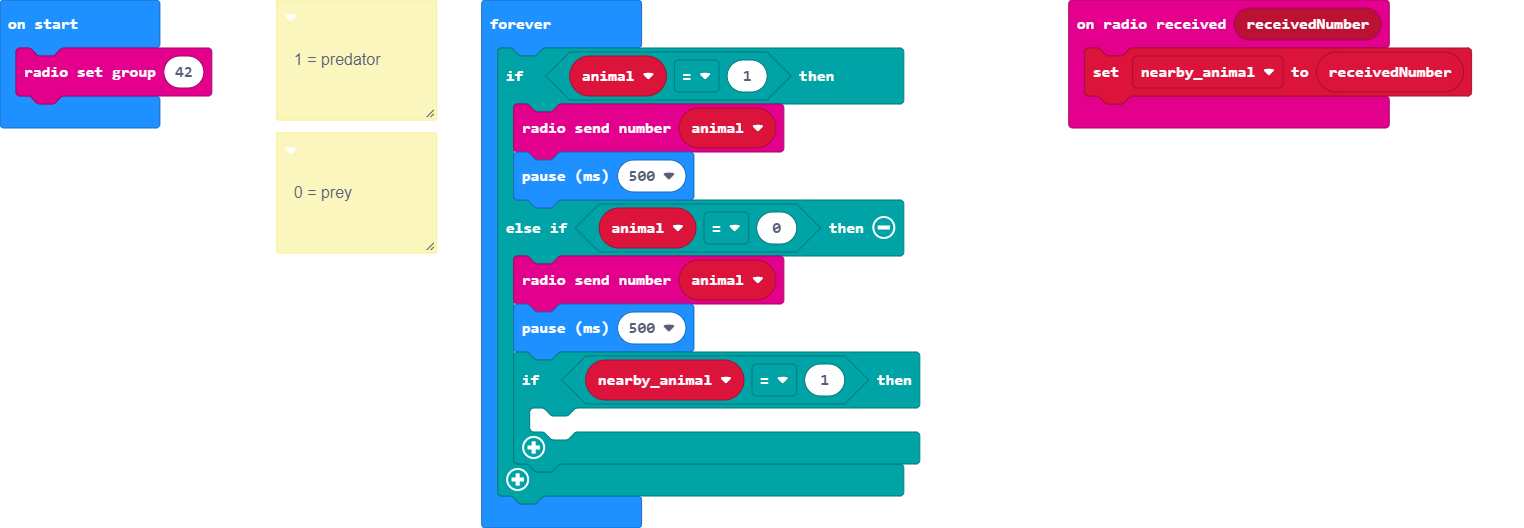
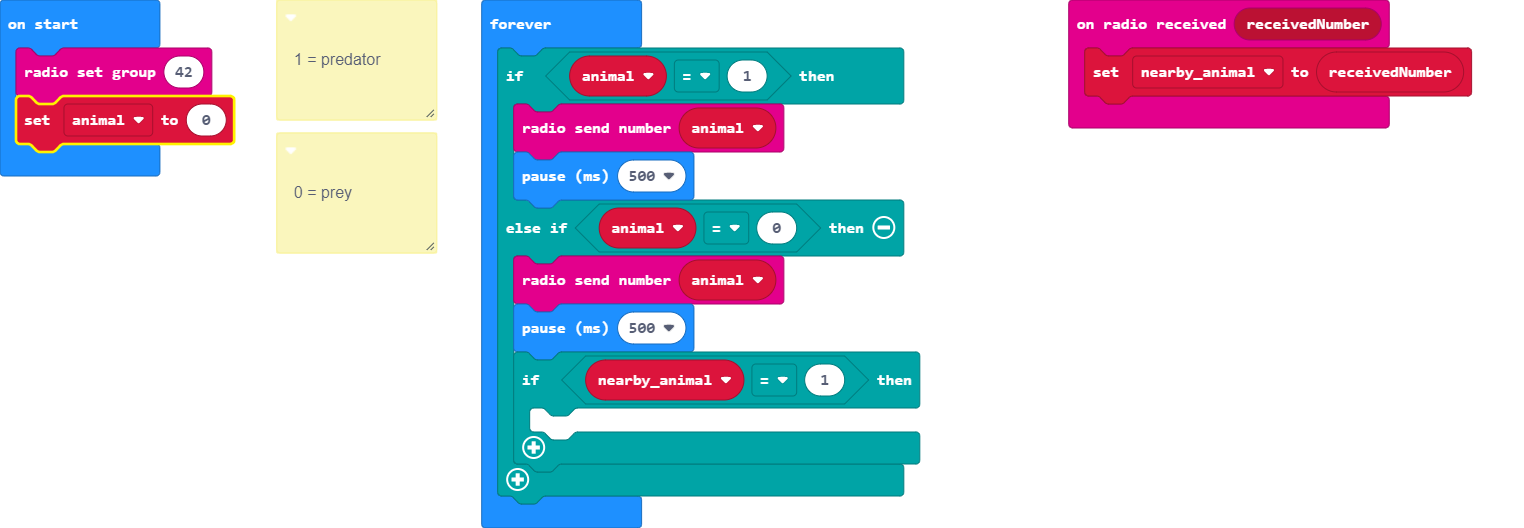
Update main.blocks, main.ts, main.py

Changed region(s): [[0.0, 0.1515, 0.1542, 0.3333]]

diff --git a/main.ts b/main.ts
@@ -2,13 +2,12 @@ radio.onReceivedNumber(function on_received_number(receivedNumber: number) {
     
     nearby_animal = receivedNumber
 })
-let nearby_animal = 0
-radio.setGroup(42)
 //  0 = prey
 //  1 = predator
+let nearby_animal = 0
+radio.setGroup(42)
 let animal = 0
 basic.forever(function on_forever() {
-    
     if (animal == 1) {
         radio.sendNumber(animal)
         basic.pause(500)

diff --git a/main.py b/main.py
@@ -3,14 +3,13 @@ def on_received_number(receivedNumber):
     nearby_animal = receivedNumber
 radio.on_received_number(on_received_number)
 
-nearby_animal = 0
-radio.set_group(42)
 # 0 = prey
 # 1 = predator
+nearby_animal = 0
+radio.set_group(42)
 animal = 0
 
 def on_forever():
-    global animal
     if animal == 1:
         radio.send_number(animal)
         basic.pause(500)
